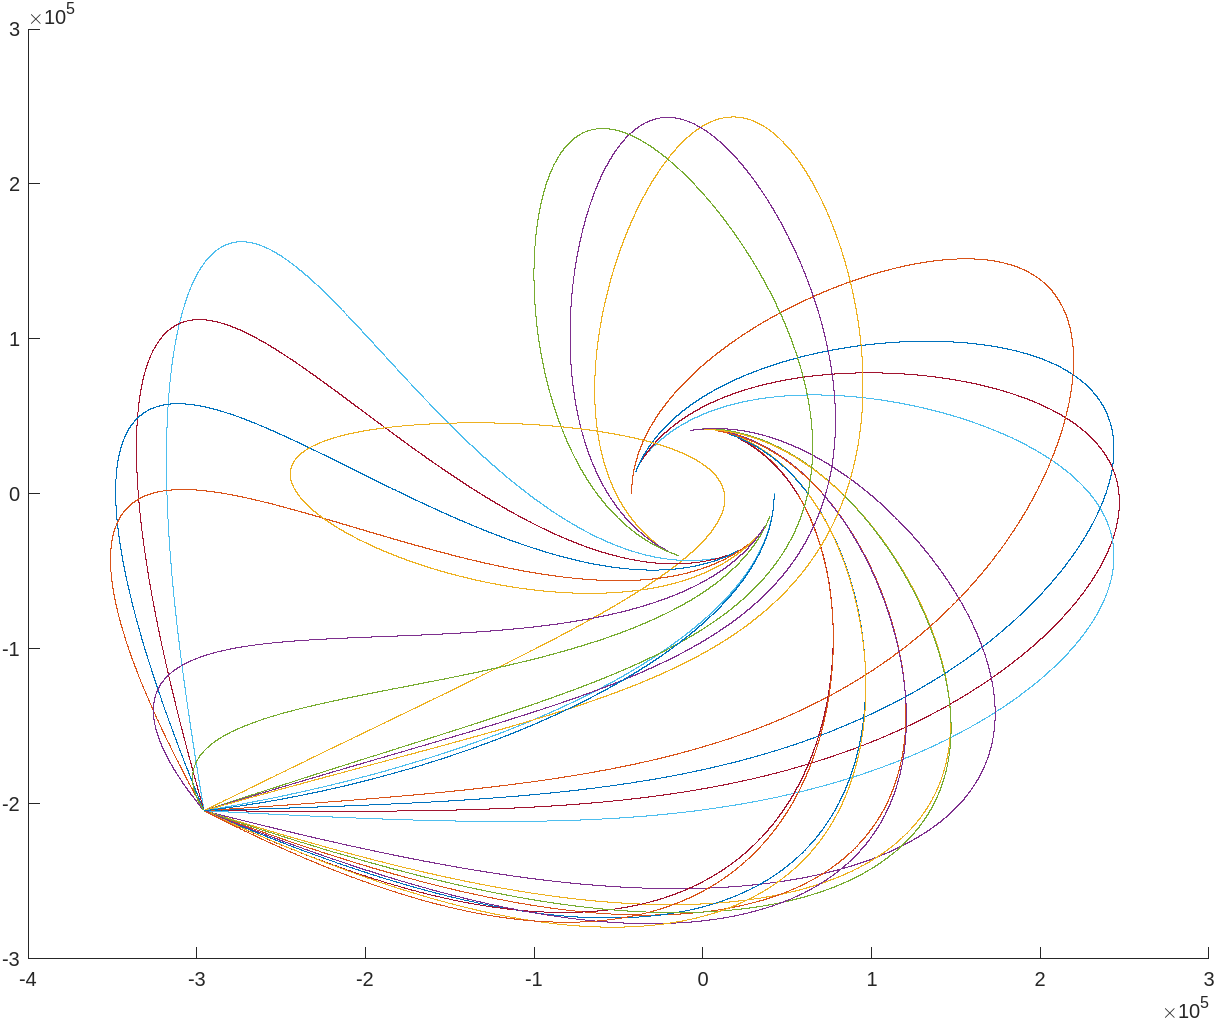
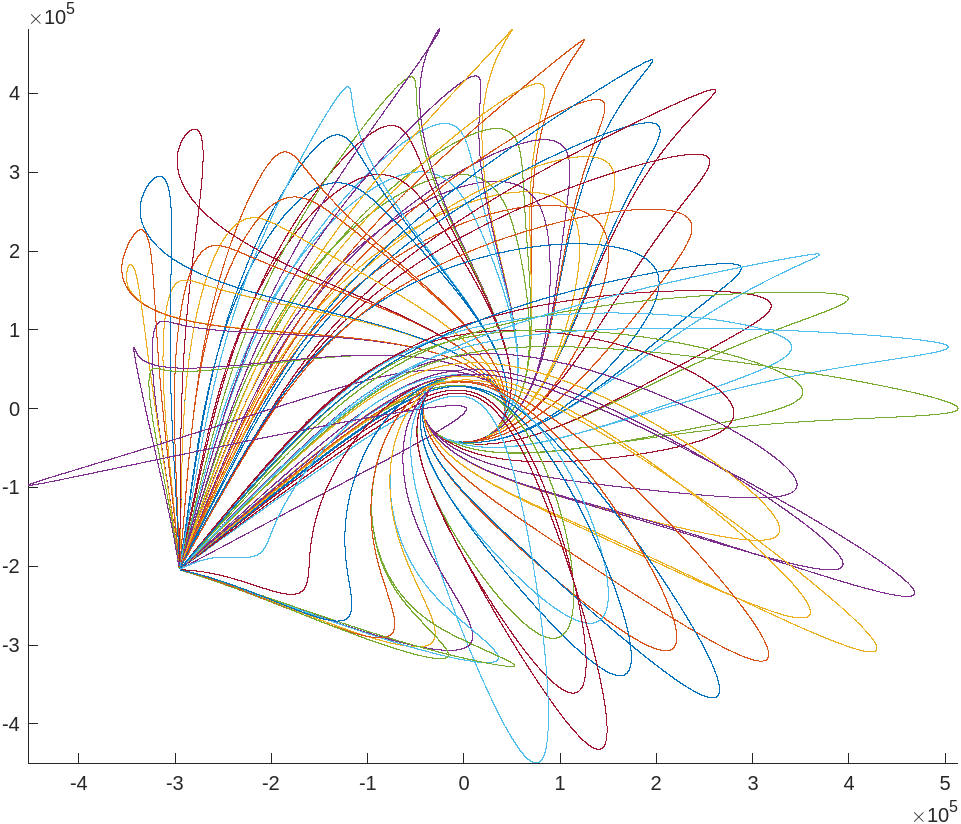
Course Project AE508: updated the  tradeoff studies script; removed the superfluous terminal_cost.m script  and updated the plot showing the converged solutions generated by running tradeoff_studies.m

diff --git a/tradeoff_studies.m b/tradeoff_studies.m
@@ -23,54 +23,78 @@ options = optimoptions('fsolve','Display','iter','MaxFunEvals',1e3,...
     'MaxIter',1e3,'TolFun',1e-12,'TolX',1e-14,...
     'UseParallel',false);
 
+filename = "reports/tradeoff_studies_results.txt";
 ar = (0:10:360)';
-dv = NaN(length(ar),1);
-for idx = 1:length(ar)
-
-    state_values = initial_values(deg2rad(ar(idx)));
-
-    x0 = [state_values.r0;state_values.v0];
-    xf = [state_values.rf;state_values.vf];
-
-    rho = 1.0;
-
-    %
-    % Solve Maximum momentum transfer optimal trajectory problem.
-    %
-    lam_guess = 1e-5*ones(7,1);
-    [p0,~,exitflag, output] = fsolve(@max_momentum,...
-        lam_guess, ...
-        options, ...
-        state_values.t0, ...
-        state_values.tf, ...
-        x0, ...
-        xf, ...
-        state_values.T, ...
-        state_values.c, ...
-        rho, ...
-        opts_ode, ...
-        state_values.m0, ...
-        state_values.m_a, ...
-        state_values.mu);
-
-    if exitflag > 0
-
-        [~, X] = ode45(@eom, [state_values.t0 state_values.tf], ...
-            [x0; state_values.m0; p0(1:7)], ...
-            opts_ode, ...
+times = [7 8 9 10]';
+figure(1); hold on;
+for timeidx = 1:length(times)
+    time_of_flight = times(timeidx);
+    for idx = 1:length(ar)
+    
+        true_anomaly = deg2rad(ar(idx));
+        state_values = initial_values(true_anomaly,time_of_flight);
+    
+        x0 = [state_values.r0;state_values.v0];
+        xf = [state_values.rf;state_values.vf];
+    
+        rho = 1.0;
+    
+        %
+        % Solve Maximum momentum transfer optimal trajectory problem.
+        %
+        lam_guess = 1e-5*ones(7,1);
+        [p0,~,exitflag, output] = fsolve(@max_momentum,...
+            lam_guess, ...
+            options, ...
+            state_values.t0, ...
+            state_values.tf, ...
+            x0, ...
+            xf, ...
             state_values.T, ...
             state_values.c, ...
             rho, ...
+            opts_ode, ...
+            state_values.m0, ...
+            state_values.m_a, ...
             state_values.mu);
-        
-        dv(idx) = sqrt( X(end,7)^2*norm(X(end,4:6))^2 ...
-            + state_values.m_a^2*norm(state_values.vf)^2 ...
-            - 2*X(end,7)*state_values.m_a*dot(X(end,4:6),state_values.vf));
+    
+        if exitflag > 0
+    
+            [~, X] = ode45(@eom, [state_values.t0 state_values.tf], ...
+                [x0; state_values.m0; p0(1:7)], ...
+                opts_ode, ...
+                state_values.T, ...
+                state_values.c, ...
+                rho, ...
+                state_values.mu);
+            
+            dv = sqrt( X(end,7)^2*norm(X(end,4:6))^2 ...
+                + state_values.m_a^2*norm(state_values.vf)^2 ...
+                - 2*X(end,7)*state_values.m_a*dot(X(end,4:6),state_values.vf));
+    
+            M = [dv, state_values.tf, true_anomaly, x0', xf', p0'];
+    
+            if exist(filename, "file")
+                writematrix(M,filename,"WriteMode","append");
+            else
+                writematrix(M,filename);
+            end
+            plot3(X(:,1),X(:,2),X(:,3));
+        else
+            M = [NaN, state_values.tf, true_anomaly, x0', xf', p0'];
+            if exist(filename, "file")
+                writematrix(M,filename,"WriteMode","append");
+            else
+                writematrix(M,filename);
+            end
+        end
     end
 end
-
+hold off;
+%{
 figure; hold on; grid on;
 plot(ar, dv,'b*','LineWidth', 1.5);
 xlabel('True Anomaly \nu (deg)');
 ylabel('Transfer Momentum Magnitude');
 hold off;
+%}
